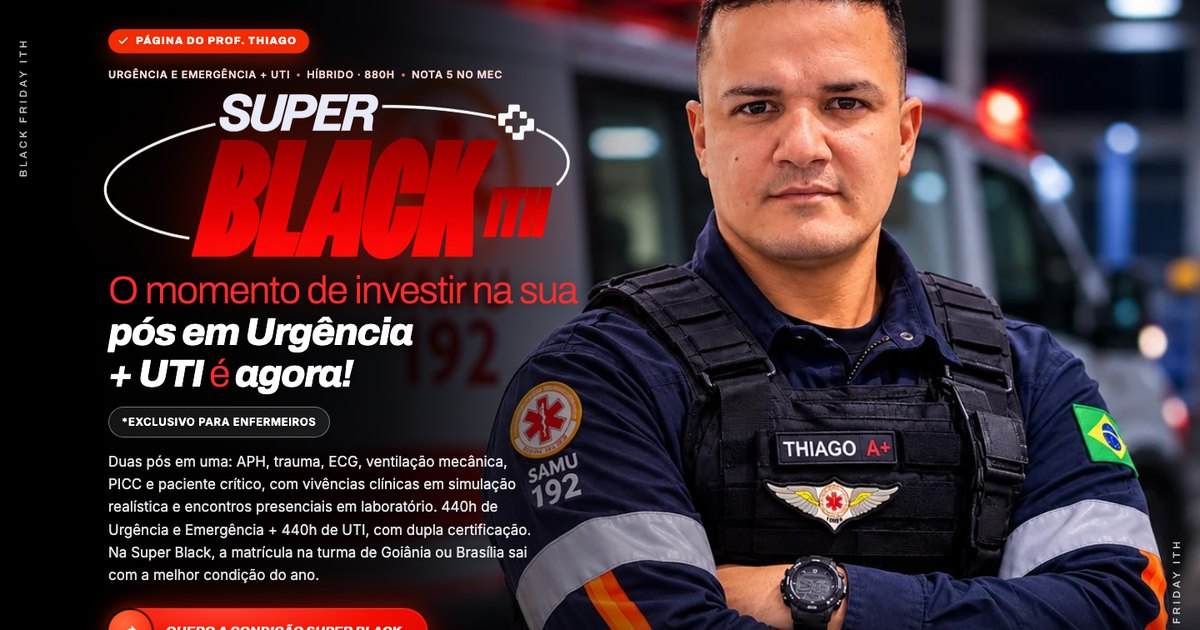
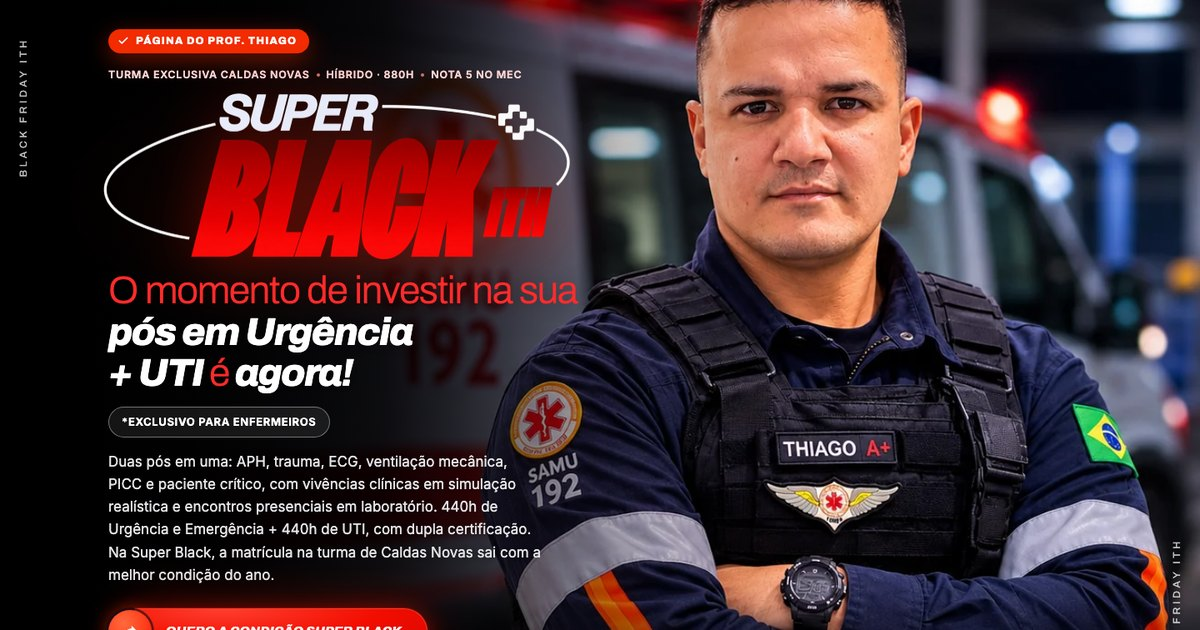
Super Black Urgência Prof. Thiago: Turma Exclusiva Caldas Novas (faixa no topo, cidade única, texto do hero)

diff --git a/lp/super-black-urgencia-emergencia-uti-prof-thiago/index.html b/lp/super-black-urgencia-emergencia-uti-prof-thiago/index.html
@@ -5,11 +5,11 @@
 <meta name="viewport" content="width=device-width, initial-scale=1">
 <meta name="color-scheme" content="light only">
 <meta name="supported-color-schemes" content="light">
-<title>Super Black ITH · Pós em Urgência e Emergência + UTI | Prof. Thiago</title>
-<meta name="description" content="Super Black ITH: condição especial de Black Friday na Pós em Urgência e Emergência + UTI. Híbrido · 880h, ITH nota 5 no MEC. Condição válida até 30/11/2026.">
+<title>Super Black ITH · Pós em Urgência e Emergência + UTI | Turma Exclusiva Caldas Novas | Prof. Thiago</title>
+<meta name="description" content="Super Black ITH: condição especial de Black Friday na Pós em Urgência e Emergência + UTI. Turma exclusiva em Caldas Novas (GO). Híbrido · 880h, ITH nota 5 no MEC. Condição válida até 30/11/2026.">
 <meta name="robots" content="noindex,follow">
 <link rel="canonical" href="https://mkt.faculdadeith.com.br/lp/super-black-urgencia-emergencia-uti-prof-thiago/">
-<meta property="og:title" content="Super Black ITH · Urgência e Emergência + UTI · Prof. Thiago">
+<meta property="og:title" content="Super Black ITH · Urgência e Emergência + UTI · Caldas Novas · Prof. Thiago">
 <meta property="og:description" content="O momento de investir na sua pós-graduação é agora. Condição Super Black até 30/11.">
 <meta property="og:image" content="https://mkt.faculdadeith.com.br/lp/super-black-urgencia-emergencia-uti-prof-thiago/og.jpg?v=2">
 <meta property="og:image:width" content="1200">
@@ -382,6 +382,13 @@ body.bar-on header.nav .logo img{height:38px}
 @media (max-width:640px){.hub-grid,.hub-grid.g2,.profs.g2{grid-template-columns:minmax(0,1fr)}}
 </style>
 <style>
+.topbar{position:sticky;top:0}
+.faixa-cn{display:flex;align-items:center;justify-content:center;gap:8px;background:#F22B00;color:#fff;padding:9px 16px;font-family:Archivo,sans-serif;font-size:14px;font-weight:700;letter-spacing:.1em;text-transform:uppercase;text-align:center;line-height:1.2}
+.faixa-cn svg{width:16px;height:16px;flex:none;color:#fff}
+.topbar .faixa-cn b{color:#fff;font-style:normal;font-weight:900;letter-spacing:.1em}
+@media (max-width:899px){.faixa-cn{font-size:12px;padding:8px 12px;letter-spacing:.08em}}
+</style>
+<style>
 .tag-prof{display:inline-flex;align-items:center;gap:8px;margin-bottom:12px;padding:7px 15px 7px 11px;border-radius:999px;background:#F22B00;color:#fff;font-family:Archivo,sans-serif;font-size:12.5px;font-weight:800;letter-spacing:.09em;text-transform:uppercase;line-height:1.2;box-shadow:0 8px 28px rgba(242,43,0,.45)}
 .tag-prof svg{width:14px;height:14px;flex:none}
 @media (min-width:900px){.tag-prof{display:flex;width:max-content}}
@@ -399,6 +406,7 @@ body.bar-on header.nav .logo img{height:38px}
 </svg>
 
 <div class="topbar" id="topbar">
+  <div class="faixa-cn"><svg><use href="#pin"/></svg><span>Turma Exclusiva <b>Caldas Novas · GO</b></span></div>
   <div class="wrap">
     <b>Super Black ITH</b>
     <span class="msg">Condição especial na Urgência e Emergência + UTI até 30/11</span>
@@ -420,13 +428,13 @@ body.bar-on header.nav .logo img{height:38px}
   <div class="wrap">
     <div class="hero-txt">
       <div class="tag-prof fade-in d1"><svg><use href="#ck"/></svg>Página do Prof. Thiago</div>
-      <div class="kicker fade-in d1">Urgência e Emergência + UTI <i></i> Híbrido · 880h <i></i> Nota 5 no MEC</div>
+      <div class="kicker fade-in d1">Turma Exclusiva Caldas Novas <i></i> Híbrido · 880h <i></i> Nota 5 no MEC</div>
       <div class="sb fade-in d2">
         <img src="super-black-ith-vermelho.webp" alt="Super Black ITH" width="1120" height="399">
       </div>
       <h1 class="fade-in d3">O momento de investir na sua <em>pós em Urgência + UTI <span class="c">é</span> agora!</em></h1>
       <p class="excl-enf fade-in d3">*Exclusivo para enfermeiros</p>
-      <p class="hero-sub fade-in d4">Duas pós em uma: APH, trauma, ECG, ventilação mecânica, PICC e paciente crítico, com vivências clínicas em simulação realística e encontros presenciais em laboratório. 440h de Urgência e Emergência + 440h de UTI, com dupla certificação. Na Super Black, a matrícula na turma de Goiânia ou Brasília sai com a melhor condição do ano.</p>
+      <p class="hero-sub fade-in d4">Duas pós em uma: APH, trauma, ECG, ventilação mecânica, PICC e paciente crítico, com vivências clínicas em simulação realística e encontros presenciais em laboratório. 440h de Urgência e Emergência + 440h de UTI, com dupla certificação. Na Super Black, a matrícula na turma de Caldas Novas sai com a melhor condição do ano.</p>
       <div class="fade-in d5">
         <button class="cta js-open" type="button"><span class="ic"><svg><use href="#arr"/></svg></span><span class="tx">Quero a condição Super Black</span></button>
         <div class="cta-micro"><span><svg><use href="#ck"/></svg>Válida até 30/11</span><span><svg><use href="#ck"/></svg>Vagas limitadas por turma</span><span><svg><use href="#ck"/></svg>Não compromete o limite do cartão</span></div>
@@ -505,7 +513,7 @@ body.bar-on header.nav .logo img{height:38px}
       <p class="lead">Você estuda sem parar de trabalhar e pratica em encontros presenciais concentrados no fim de semana.</p>
     </div>
     <div class="fmt" style="text-align:left"><div class="card rv"><span class="lbl">TEORIA</span><h3>Conteúdo online no seu ritmo</h3><p>Videoaulas, e-books e materiais científicos liberados mensalmente no portal do aluno.</p></div><div class="card rv"><span class="lbl">PRESENCIAL</span><h3>Prática presencial em laboratório</h3><p>Encontros teórico-práticos em laboratórios com simulação realística, com datas pensadas para conciliar com a escala.</p></div><div class="card rv"><span class="lbl">VIVÊNCIAS</span><h3>Várias vivências clínicas</h3><p>APH, distúrbios cardiovasculares e ECG, ventilação mecânica e emergências neurológicas treinados em cenários reais.</p></div></div>
-    <div class="cities rv"><span><svg><use href="#pin"/></svg>Goiânia · GO</span><span><svg><use href="#pin"/></svg>Brasília · DF</span></div>
+    <div class="cities rv"><span><svg><use href="#pin"/></svg>Caldas Novas · GO</span></div>
   </div>
 </section>
 
@@ -539,9 +547,9 @@ body.bar-on header.nav .logo img{height:38px}
   <div class="wrap form-grid">
     <div class="rv" style="position:relative">
       <div class="sb"><img src="super-black-ith-vermelho.webp" alt="Super Black ITH" width="1120" height="399" loading="lazy"></div>
-      <h2>Garanta a condição <span class="g">Super Black</span> na sua turma</h2>
-      <p class="lead">Turmas em Goiânia e Brasília, com vagas limitadas por causa das vivências práticas. Deixe seus dados e um consultor de carreira fala com você.</p>
-      <ul class="get"><li><span class="ck"><svg><use href="#ck"/></svg></span>A condição Super Black e a simulação da parcela</li><li><span class="ck"><svg><use href="#ck"/></svg></span>Datas de início da turma da sua cidade</li><li><span class="ck"><svg><use href="#ck"/></svg></span>Grade completa e calendário das vivências</li><li><span class="ck"><svg><use href="#ck"/></svg></span>Atendimento pelo WhatsApp com consultor</li></ul>
+      <h2>Garanta a condição <span class="g">Super Black</span> na Turma Exclusiva de Caldas Novas</h2>
+      <p class="lead">Turma exclusiva de Caldas Novas, com vagas limitadas por causa das vivências práticas. Deixe seus dados e um consultor de carreira fala com você.</p>
+      <ul class="get"><li><span class="ck"><svg><use href="#ck"/></svg></span>A condição Super Black e a simulação da parcela</li><li><span class="ck"><svg><use href="#ck"/></svg></span>Datas de início da turma de Caldas Novas</li><li><span class="ck"><svg><use href="#ck"/></svg></span>Grade completa e calendário das vivências</li><li><span class="ck"><svg><use href="#ck"/></svg></span>Atendimento pelo WhatsApp com consultor</li></ul>
     </div>
     <div class="fbox rv">
       <form class="lead-form" data-form="1" novalidate>
@@ -550,7 +558,7 @@ body.bar-on header.nav .logo img{height:38px}
         <div class="fld"><label for="nome1">Nome completo</label><input id="nome1" name="nome" required minlength="3" autocomplete="name" placeholder="Seu nome"></div>
         <div class="fld"><label for="cel1">WhatsApp com DDD</label><input id="cel1" name="celular" required inputmode="tel" autocomplete="tel" placeholder="(62) 99999-9999"></div>
         <div class="fld"><label for="em1">E-mail</label><input id="em1" name="email" type="email" required autocomplete="email" placeholder="voce@email.com"></div>
-        <div class="row2"><div class="fld"><label for="fo1">Sua formação</label><select id="fo1" name="formacao" required><option value="">Selecione</option><option>Enfermeiro</option><option>Fisioterapeuta</option><option>Técnico de Enfermagem</option><option>Graduando Enfermagem 1º ao 6º período</option><option>Graduando Enfermagem 7º ao 10º período</option><option>Graduando Fisioterapia 1º ao 6º período</option><option>Graduando Fisioterapia 7º ao 10º período</option></select></div><div class="fld"><label for="tu1">Turma</label><select id="tu1" name="turma" required><option value="">Selecione</option><option>Goiânia · GO</option><option>Brasília · DF</option><option>Ainda não sei</option></select></div></div>
+        <div class="row2"><div class="fld"><label for="fo1">Sua formação</label><select id="fo1" name="formacao" required><option value="">Selecione</option><option>Enfermeiro</option><option>Fisioterapeuta</option><option>Técnico de Enfermagem</option><option>Graduando Enfermagem 1º ao 6º período</option><option>Graduando Enfermagem 7º ao 10º período</option><option>Graduando Fisioterapia 1º ao 6º período</option><option>Graduando Fisioterapia 7º ao 10º período</option></select></div><input type="hidden" name="turma" value="Caldas Novas · GO"></div>
         <p class="fld-err" hidden>Confira os campos destacados.</p>
         <button class="submit" type="submit">Quero minha condição</button>
         <p class="priv">Seus dados ficam com a ITH Educação. Sem spam.</p>
@@ -558,7 +566,7 @@ body.bar-on header.nav .logo img{height:38px}
       <div class="lead-ok" id="leadOk1" hidden>
         <div class="okic"><svg width="30" height="30"><use href="#ck"/></svg></div>
         <h3>Recebemos seus dados!</h3>
-        <p>Um consultor de carreira da ITH vai falar com você pelo WhatsApp com a condição Super Black e as datas da turma da sua cidade.</p>
+        <p>Um consultor de carreira da ITH vai falar com você pelo WhatsApp com a condição Super Black e as datas da turma de Caldas Novas.</p>
         <a class="wa-btn js-wa" href="#" target="_blank" rel="noopener"><svg><use href="#wa"/></svg>Prefere falar agora? Chame no WhatsApp</a>
       </div>
     </div>
@@ -572,7 +580,7 @@ body.bar-on header.nav .logo img{height:38px}
       <span class="eyebrow"><span class="spark"><svg><use href="#tw"/></svg></span>Dúvidas</span>
       <h2>Perguntas <span class="g">frequentes</span></h2>
     </div>
-    <div class="faq rv"><details><summary>Qual é a condição da Super Black?<i><svg viewBox="0 0 14 14"><path d="M7 1v12M1 7h12" stroke="#fff" stroke-width="2" stroke-linecap="round"/></svg></i></summary><p>É a condição especial de matrícula da Black Friday ITH na Pós em Urgência e Emergência + UTI. O consultor envia o valor e a simulação da parcela pelo WhatsApp. A condição vale para matrículas feitas até 30/11 ou enquanto houver vagas na turma.</p></details><details><summary>Quem pode fazer?<i><svg viewBox="0 0 14 14"><path d="M7 1v12M1 7h12" stroke="#fff" stroke-width="2" stroke-linecap="round"/></svg></i></summary><p>Enfermeiros que atuam ou querem atuar em pronto-socorro, APH, SAMU, unidades de terapia intensiva e serviços de emergência.</p></details><details><summary>Como funcionam os encontros presenciais?<i><svg viewBox="0 0 14 14"><path d="M7 1v12M1 7h12" stroke="#fff" stroke-width="2" stroke-linecap="round"/></svg></i></summary><p>Encontros teórico-práticos em laboratórios com simulação realística, com datas pensadas para conciliar com a escala. As turmas são em Goiânia e Brasília, e as datas são confirmadas pelo consultor.</p></details><details><summary>O certificado é reconhecido pelo MEC?<i><svg viewBox="0 0 14 14"><path d="M7 1v12M1 7h12" stroke="#fff" stroke-width="2" stroke-linecap="round"/></svg></i></summary><p>Sim. É um certificado de pós-graduação lato sensu, digital, emitido pela ITH Educação (Conceito 5 no MEC), com QR Code de autenticidade e validade em todo o território nacional.</p></details><details><summary>Preciso fazer TCC?<i><svg viewBox="0 0 14 14"><path d="M7 1v12M1 7h12" stroke="#fff" stroke-width="2" stroke-linecap="round"/></svg></i></summary><p>Não no formato tradicional. No lugar do TCC você estrutura um plano de negócio aplicado à sua área.</p></details></div>
+    <div class="faq rv"><details><summary>Qual é a condição da Super Black?<i><svg viewBox="0 0 14 14"><path d="M7 1v12M1 7h12" stroke="#fff" stroke-width="2" stroke-linecap="round"/></svg></i></summary><p>É a condição especial de matrícula da Black Friday ITH na Pós em Urgência e Emergência + UTI. O consultor envia o valor e a simulação da parcela pelo WhatsApp. A condição vale para matrículas feitas até 30/11 ou enquanto houver vagas na turma.</p></details><details><summary>Quem pode fazer?<i><svg viewBox="0 0 14 14"><path d="M7 1v12M1 7h12" stroke="#fff" stroke-width="2" stroke-linecap="round"/></svg></i></summary><p>Enfermeiros que atuam ou querem atuar em pronto-socorro, APH, SAMU, unidades de terapia intensiva e serviços de emergência.</p></details><details><summary>Como funcionam os encontros presenciais?<i><svg viewBox="0 0 14 14"><path d="M7 1v12M1 7h12" stroke="#fff" stroke-width="2" stroke-linecap="round"/></svg></i></summary><p>Encontros teórico-práticos em laboratórios com simulação realística, com datas pensadas para conciliar com a escala. A turma é exclusiva de Caldas Novas, e as datas são confirmadas pelo consultor.</p></details><details><summary>O certificado é reconhecido pelo MEC?<i><svg viewBox="0 0 14 14"><path d="M7 1v12M1 7h12" stroke="#fff" stroke-width="2" stroke-linecap="round"/></svg></i></summary><p>Sim. É um certificado de pós-graduação lato sensu, digital, emitido pela ITH Educação (Conceito 5 no MEC), com QR Code de autenticidade e validade em todo o território nacional.</p></details><details><summary>Preciso fazer TCC?<i><svg viewBox="0 0 14 14"><path d="M7 1v12M1 7h12" stroke="#fff" stroke-width="2" stroke-linecap="round"/></svg></i></summary><p>Não no formato tradicional. No lugar do TCC você estrutura um plano de negócio aplicado à sua área.</p></details></div>
   </div>
 </section>
 
@@ -605,11 +613,11 @@ body.bar-on header.nav .logo img{height:38px}
     <button class="x" type="button" aria-label="Fechar">×</button>
     <form class="lead-form" data-form="9" novalidate>
         <h3>Quero a condição Super Black</h3>
-        <p class="s">Um consultor envia a condição da turma da sua cidade.</p>
+        <p class="s">Um consultor envia a condição da turma de Caldas Novas.</p>
         <div class="fld"><label for="nome9">Nome completo</label><input id="nome9" name="nome" required minlength="3" autocomplete="name" placeholder="Seu nome"></div>
         <div class="fld"><label for="cel9">WhatsApp com DDD</label><input id="cel9" name="celular" required inputmode="tel" autocomplete="tel" placeholder="(62) 99999-9999"></div>
         <div class="fld"><label for="em9">E-mail</label><input id="em9" name="email" type="email" required autocomplete="email" placeholder="voce@email.com"></div>
-        <div class="row2"><div class="fld"><label for="fo9">Sua formação</label><select id="fo9" name="formacao" required><option value="">Selecione</option><option>Enfermeiro</option><option>Fisioterapeuta</option><option>Técnico de Enfermagem</option><option>Graduando Enfermagem 1º ao 6º período</option><option>Graduando Enfermagem 7º ao 10º período</option><option>Graduando Fisioterapia 1º ao 6º período</option><option>Graduando Fisioterapia 7º ao 10º período</option></select></div><div class="fld"><label for="tu9">Turma</label><select id="tu9" name="turma" required><option value="">Selecione</option><option>Goiânia · GO</option><option>Brasília · DF</option><option>Ainda não sei</option></select></div></div>
+        <div class="row2"><div class="fld"><label for="fo9">Sua formação</label><select id="fo9" name="formacao" required><option value="">Selecione</option><option>Enfermeiro</option><option>Fisioterapeuta</option><option>Técnico de Enfermagem</option><option>Graduando Enfermagem 1º ao 6º período</option><option>Graduando Enfermagem 7º ao 10º período</option><option>Graduando Fisioterapia 1º ao 6º período</option><option>Graduando Fisioterapia 7º ao 10º período</option></select></div><input type="hidden" name="turma" value="Caldas Novas · GO"></div>
         <p class="fld-err" hidden>Confira os campos destacados.</p>
         <button class="submit" type="submit">Quero minha condição</button>
         <p class="priv">Seus dados ficam com a ITH Educação. Sem spam.</p>
@@ -617,7 +625,7 @@ body.bar-on header.nav .logo img{height:38px}
       <div class="lead-ok" id="leadOk9" hidden>
         <div class="okic"><svg width="30" height="30"><use href="#ck"/></svg></div>
         <h3>Recebemos seus dados!</h3>
-        <p>Um consultor de carreira da ITH vai falar com você pelo WhatsApp com a condição Super Black e as datas da turma da sua cidade.</p>
+        <p>Um consultor de carreira da ITH vai falar com você pelo WhatsApp com a condição Super Black e as datas da turma de Caldas Novas.</p>
         <a class="wa-btn js-wa" href="#" target="_blank" rel="noopener"><svg><use href="#wa"/></svg>Prefere falar agora? Chame no WhatsApp</a>
       </div>
   </div>
@@ -658,13 +666,13 @@ body.bar-on header.nav .logo img{height:38px}
   // ===== Captura de lead =====
   var LEAD_WEBHOOK = 'https://hook.us1.make.com/x9fckmioiupn2b17iwde65hgy7nafqn7'; // Make → Eduq/planilha (vazio = não envia)
   
-  var WA_URL = 'https://wa.me/5562982445664?text=' + encodeURIComponent('Olá! Vim pela página do Prof. Thiago e quero a condição Super Black da Pós em Urgência e Emergência + UTI.');
+  var WA_URL = 'https://wa.me/5562982445664?text=' + encodeURIComponent('Olá! Vim pela página do Prof. Thiago e quero a condição Super Black da Pós em Urgência e Emergência + UTI, Turma Exclusiva Caldas Novas.');
   document.querySelectorAll('.js-wa').forEach(function(a){ a.href=WA_URL; a.addEventListener('click',function(){ try{ gtag('event','whatsapp_click',{}); }catch(e){} try{ fbq('track','Contact'); }catch(e){} }); });
   (function(){
     var params=new URLSearchParams(window.location.search);
     function utm(k){ return params.get(k)||''; }
     var FIELDS=['nome','celular','email','formacao','turma'];
-    var KEY='ith_lead_super_black_urgencia_prof_thiago';
+    var KEY='ith_lead_super_black_urgencia_caldas_novas_prof_thiago';
     document.querySelectorAll('.lead-form').forEach(function(form){
       var idx=form.getAttribute('data-form'), ok=document.getElementById('leadOk'+idx), err=form.querySelector('.fld-err'), btn=form.querySelector('button[type=submit]');
       var tel=form.querySelector('[name=celular]');
@@ -694,14 +702,14 @@ body.bar-on header.nav .logo img{height:38px}
         FIELDS.forEach(function(k){
           var el=form.elements[k], wrap=el.closest('.fld'), v=el.checkValidity();
           if(k==='celular') v = celularValido(el.value);
-          wrap.classList.toggle('bad',!v); if(!v) valid=false;
+          if(wrap) wrap.classList.toggle('bad',!v); if(!v) valid=false;
         });
         
         err.hidden=valid; if(!valid) return;
         var fmc=(form.elements.formacao&&form.elements.formacao.value)||''; if(/^T[ée]cnico de Enfermagem$|1º ao 6º/i.test(fmc)){ form.hidden=true; ok.hidden=false; if(idx!=='9') ok.scrollIntoView({behavior:'smooth',block:'center'}); return; } // desqualificado (Técnico / 1º ao 6º): mostra sucesso e não envia nada
         var curso='Pós-Graduação em Urgência e Emergência + UTI - Híbrido'; var hook=LEAD_WEBHOOK; var nomeCurso='Urgência e Emergência + UTI';
         var data={ nome:form.elements.nome.value.trim(), celular:normalizarCelular(form.elements.celular.value), email:form.elements.email.value.trim(), formacao:form.elements.formacao.value, turma:(form.elements.turma?form.elements.turma.value:''),
-          curso:curso, pagina:'LP Super Black Urgência e Emergência + UTI - Prof. Thiago', campanha:'Black Friday 2026', origem:window.location.href.split('?')[0],
+          curso:curso, pagina:'LP Super Black Urgência e Emergência + UTI - Caldas Novas - Prof. Thiago', campanha:'Black Friday 2026', origem:window.location.href.split('?')[0],
           utm_source:utm('utm_source'), utm_medium:utm('utm_medium'), utm_campaign:utm('utm_campaign'), utm_content:utm('utm_content'), utm_term:utm('utm_term'), gclid:utm('gclid')||utm('gbraid')||utm('wbraid'), fbclid:utm('fbclid'),
           dispositivo:/Mobi|Android/i.test(navigator.userAgent)?'Mobile':'Desktop', data:new Date().toISOString() };
         // campos no formato da planilha de leads EAD: Nome, Contato, E-mail, Data, UTM, Curso, Formação
